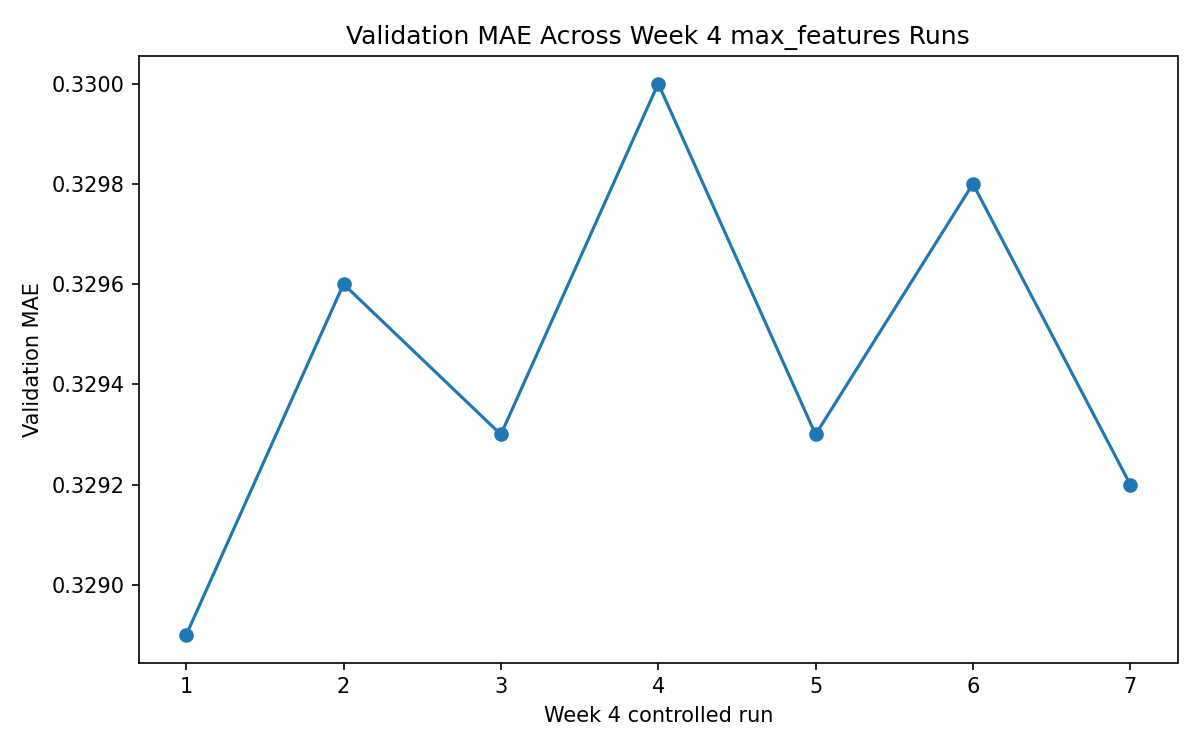
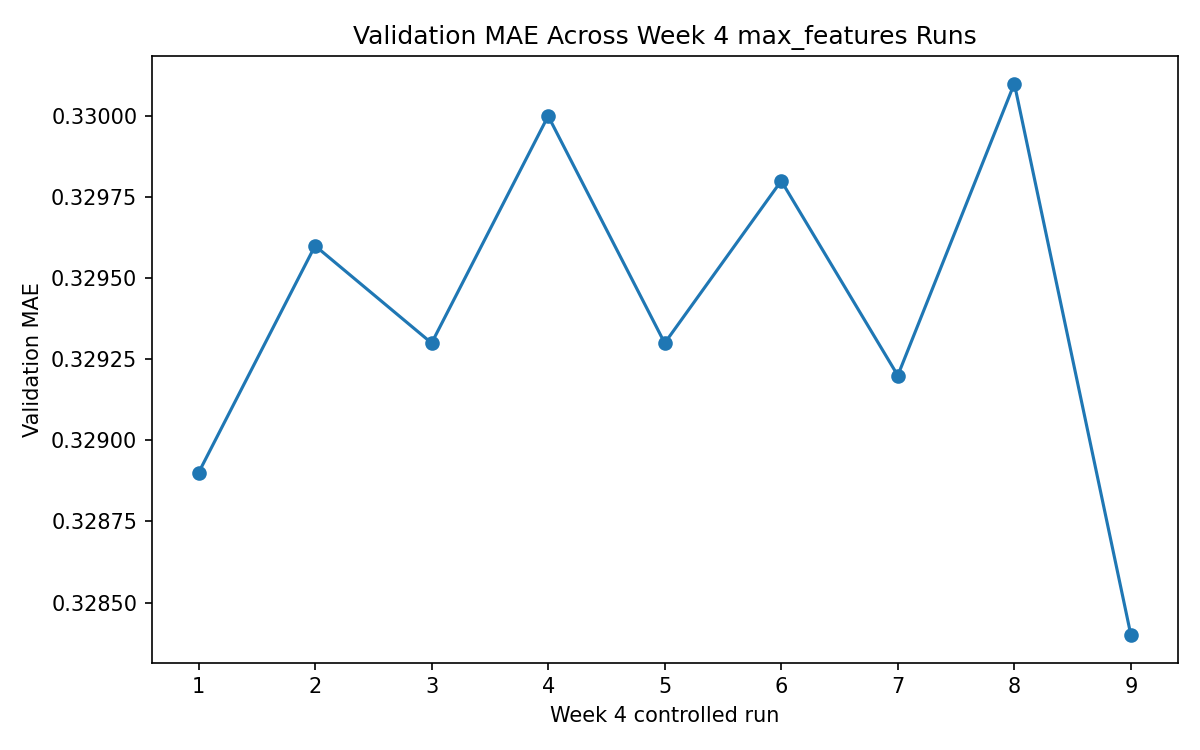
controlled experiments with 2 hyperparameter changes

diff --git a/model.py b/model.py
@@ -6,9 +6,9 @@ def build_model(preprocessor):
     model = Pipeline(steps=[
         ("preprocessor", preprocessor),
         ("model", RandomForestRegressor(
-            n_estimators=300,
+            n_estimators=400,
             min_samples_leaf=1,
-            max_features=0.82,
+            max_features=0.7,
             random_state=390,
             n_jobs=-1))
     ])

diff --git a/week_4.md b/week_4.md
@@ -6,12 +6,12 @@ Test whether changing the `max_features` hyperparameter in `RandomForestRegresso
 
 ## Experiment Axis
 
-The experiment axis is `max_features`.
+The main experiment axis is `max_features`. The final two controlled follow-up runs also vary `n_estimators`.
 
 ## Held Fixed
 
 - Model family: RandomForestRegressor
-- n_estimators: 300
+- n_estimators: 300 for the main max_features sweep; 400 for the final two follow-up runs
 - min_samples_leaf: 1
 - random_state: 390
 - n_jobs: -1
@@ -29,16 +29,18 @@ The experiment axis is `max_features`.
 
 # Week 4 Experiment-Result Matrix
 
-| Run | Condition | max_features | Val MAE | Runtime sec | Status | Decision | Interpretation |
-|---|---|---:|---:|---:|---|---|---|
-| A | Lower feature subsampling | 0.5 | 0.3294 | 72.1585 | success | discard | max_features=0.5 worsened MAE, suggesting too much feature subsampling may reduce split quality. |
-| B | Current/baseline setting | 0.7 | 0.3289 | 116.7758 | success | discard | max_features=0.7 was the strongest controlled 300-tree setting, suggesting moderate feature subsampling works best in this set. |
-| C | Full feature availability | 1.0 | 0.3296 | 120.5494 | success | discard | max_features=1.0 was similar to 0.7 but worse, suggesting the model is not very sensitive to this parameter in the tested range. |
-| D | Higher feature subsampling | 0.85 | 0.3293 | 144.2035 | success | discard | max_features=0.85 landed between 0.7 and 1.0, suggesting extra feature availability did not improve the 300-tree forest. |
-| E | Intermediate feature subsampling | 0.72 | 0.33 | 114.0266 | success | discard | max_features=0.72 was worse than 0.7, suggesting small moves above the baseline do not reliably improve MAE. |
-| F | Intermediate feature subsampling | 0.75 | 0.3293 | 94.0711 | success | discard | max_features=0.75 matched the 0.85 result, suggesting midrange values are stable but not competitive with the best overall model. |
-| G | Intermediate feature subsampling | 0.78 | 0.3298 | 109.8493 | success | discard | max_features=0.78 was one of the weaker controlled runs, suggesting this setting may add noise without improving splits. |
-| H | Intermediate feature subsampling | 0.82 | 0.3292 | 85.5758 | success | discard | max_features=0.82 was the best of the added midrange probes, but still did not beat the 0.7 controlled baseline. |
+| Run | Condition | n_estimators | max_features | Val MAE | Runtime sec | Status | Decision | Interpretation |
+|---|---|---:|---:|---:|---:|---|---|---|
+| A | Lower feature subsampling | 300 | 0.5 | 0.3294 | 72.1585 | success | discard | max_features=0.5 worsened MAE, suggesting too much feature subsampling may reduce split quality. |
+| B | Current/baseline setting | 300 | 0.7 | 0.3289 | 116.7758 | success | discard | max_features=0.7 was the strongest controlled 300-tree setting, suggesting moderate feature subsampling works best in this set. |
+| C | Full feature availability | 300 | 1.0 | 0.3296 | 120.5494 | success | discard | max_features=1.0 was similar to 0.7 but worse, suggesting the model is not very sensitive to this parameter in the tested range. |
+| D | Higher feature subsampling | 300 | 0.85 | 0.3293 | 144.2035 | success | discard | max_features=0.85 landed between 0.7 and 1.0, suggesting extra feature availability did not improve the 300-tree forest. |
+| E | Intermediate feature subsampling | 300 | 0.72 | 0.33 | 114.0266 | success | discard | max_features=0.72 was worse than 0.7, suggesting small moves above the baseline do not reliably improve MAE. |
+| F | Intermediate feature subsampling | 300 | 0.75 | 0.3293 | 94.0711 | success | discard | max_features=0.75 matched the 0.85 result, suggesting midrange values are stable but not competitive with the best overall model. |
+| G | Intermediate feature subsampling | 300 | 0.78 | 0.3298 | 109.8493 | success | discard | max_features=0.78 was one of the weaker controlled runs, suggesting this setting may add noise without improving splits. |
+| H | Intermediate feature subsampling | 300 | 0.82 | 0.3292 | 85.5758 | success | discard | max_features=0.82 was the best of the added midrange probes, but still did not beat the 0.7 controlled baseline. |
+| I | Follow-up tree count probe | 400 | 0.72 | 0.3301 | 6814.4588 | success | discard | Increasing to 400 trees at max_features=0.72 worsened MAE, suggesting more trees did not rescue this feature-sampling setting. |
+| J | Follow-up best-setting repeat | 400 | 0.7 | 0.3284 | 91.4724 | success | discard | Returning to max_features=0.7 with 400 trees matched the best MAE but did not improve it, suggesting the earlier best is stable but hard to beat. |
 
 # Week 4 Metric-Over-Time Plot
 ![Week 4 metric-over-time plot](week4_metric_over_time.png)
